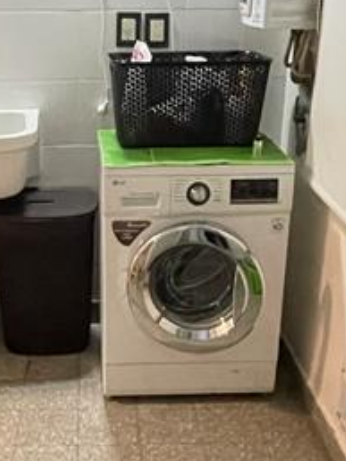
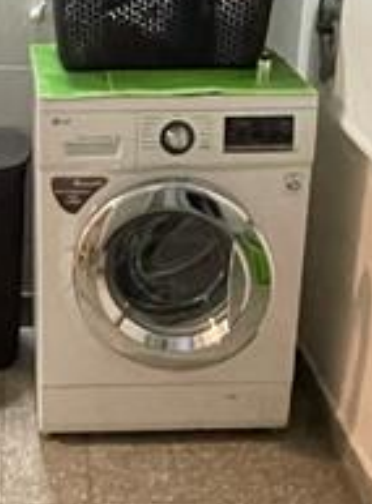
updated blog

diff --git a/blog/personal/2021/05/30/Garage_Sale.html b/blog/personal/2021/05/30/Garage_Sale.html
@@ -153,6 +153,7 @@ Precio: $3.500
 <p>Precio: $5000</p>
 
 <h3 id="guantes-buceo">Guantes buceo</h3>
+
 <p>Impecables muy poco uso. Neoprene y refuerzo de cuerina.
 Talle L</p>
 
@@ -238,15 +239,15 @@ Precio: $ 600
 -->
 <h2 id="electrodomesticos">Electrodomesticos</h2>
 
-<!--
-### Amasadora ATMA 1200W
+<h3 id="lavarropas-lg-inverter-direct-drive-85kg">Lavarropas LG Inverter Direct Drive 8.5Kg</h3>
 
-![Foto](/blog/assets/Garage_Sale/amasadora.jpeg)
+<p>Muy Buen estado, 3 años de uso.</p>
 
-![Foto](/blog/assets/Garage_Sale/amasadora2.jpeg)
+<p><img src="/blog/assets/Garage_Sale/lavarropas.jpeg" alt="Foto" /></p>
 
-Precio: $ 22.000
--->
+<p><img src="/blog/assets/Garage_Sale/lavarropas2.jpeg" alt="Foto" /></p>
+
+<p>Precio: $ 450.000</p>
 
 <h3 id="batidora-de-mano-philips-300w">Batidora de mano Philips 300W</h3>
 
@@ -303,6 +304,12 @@ Precio: $ 6.000
 -->
 
 <h2 id="electronica_consumo">Electronica de consumo</h2>
+
+<h3 id="impresora-multifunción-epson-l365-tinta-continua">Impresora Multifunción Epson L365 (tinta continua)</h3>
+
+<p><img src="/blog/assets/Garage_Sale/impresora.jpeg" alt="Foto" /></p>
+
+<p>Precio: $ 250.000s</p>
 
 <!--
 ### Televisor LED Smart Sony 3D 47" 
@@ -388,30 +395,6 @@ Modelo 22MN430H-B. 7 meses de uso.
 
 ~~Precio: $17.000 (Se puede entregar la semana del 12/7)~~ Vendido
 
--->
-
-<!--
-### Guitarra Eléctrica Les Paul Vintage V100
-Impecable, comprada en 2020. Con funda.
-
-![Foto](/blog/assets/Garage_Sale/guitarra.webp)
-
-Precio: $45.000
-
-### Amplificador Peavey Rage 158 (2 entradas)
-
-![Foto](/blog/assets/Garage_Sale/amplificador.jpeg)
-
-Precio: $15.000
--->
-
-<!--
-### Switch Linksys Administrable 8 bocas + 1 Giga + 1GBIC
-Modelo SRW208G. Gestionable, Vlans. etc
-
-![Foto](/blog/assets/Garage_Sale/switch.jpg)
-
-Precio: $3.500
 -->
 
 <!--
